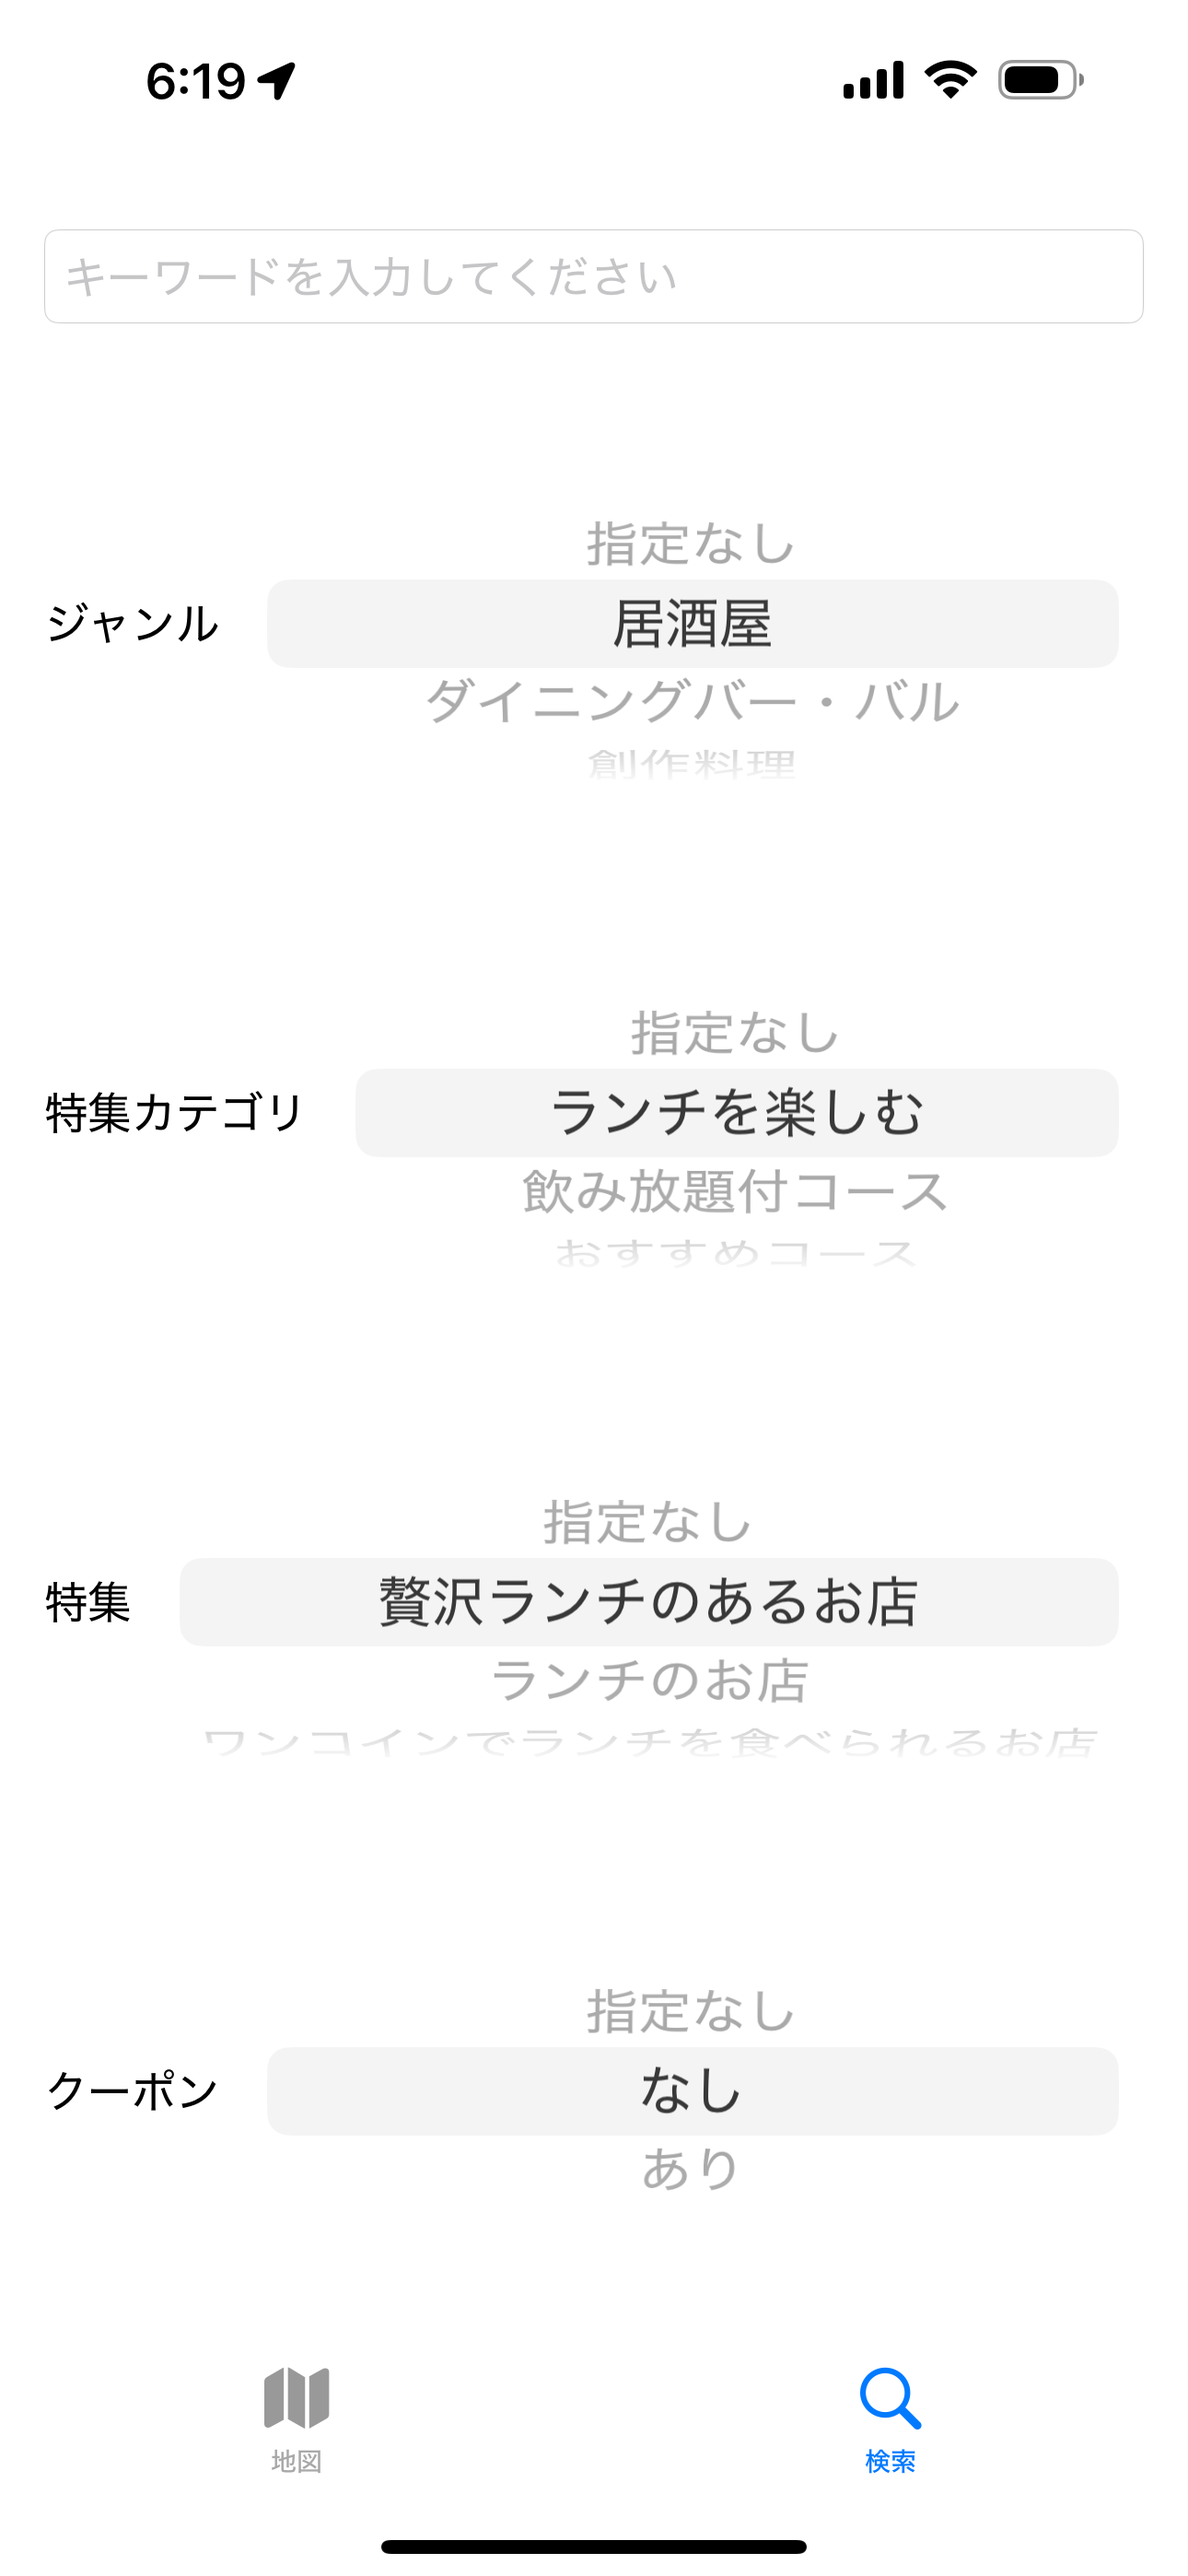
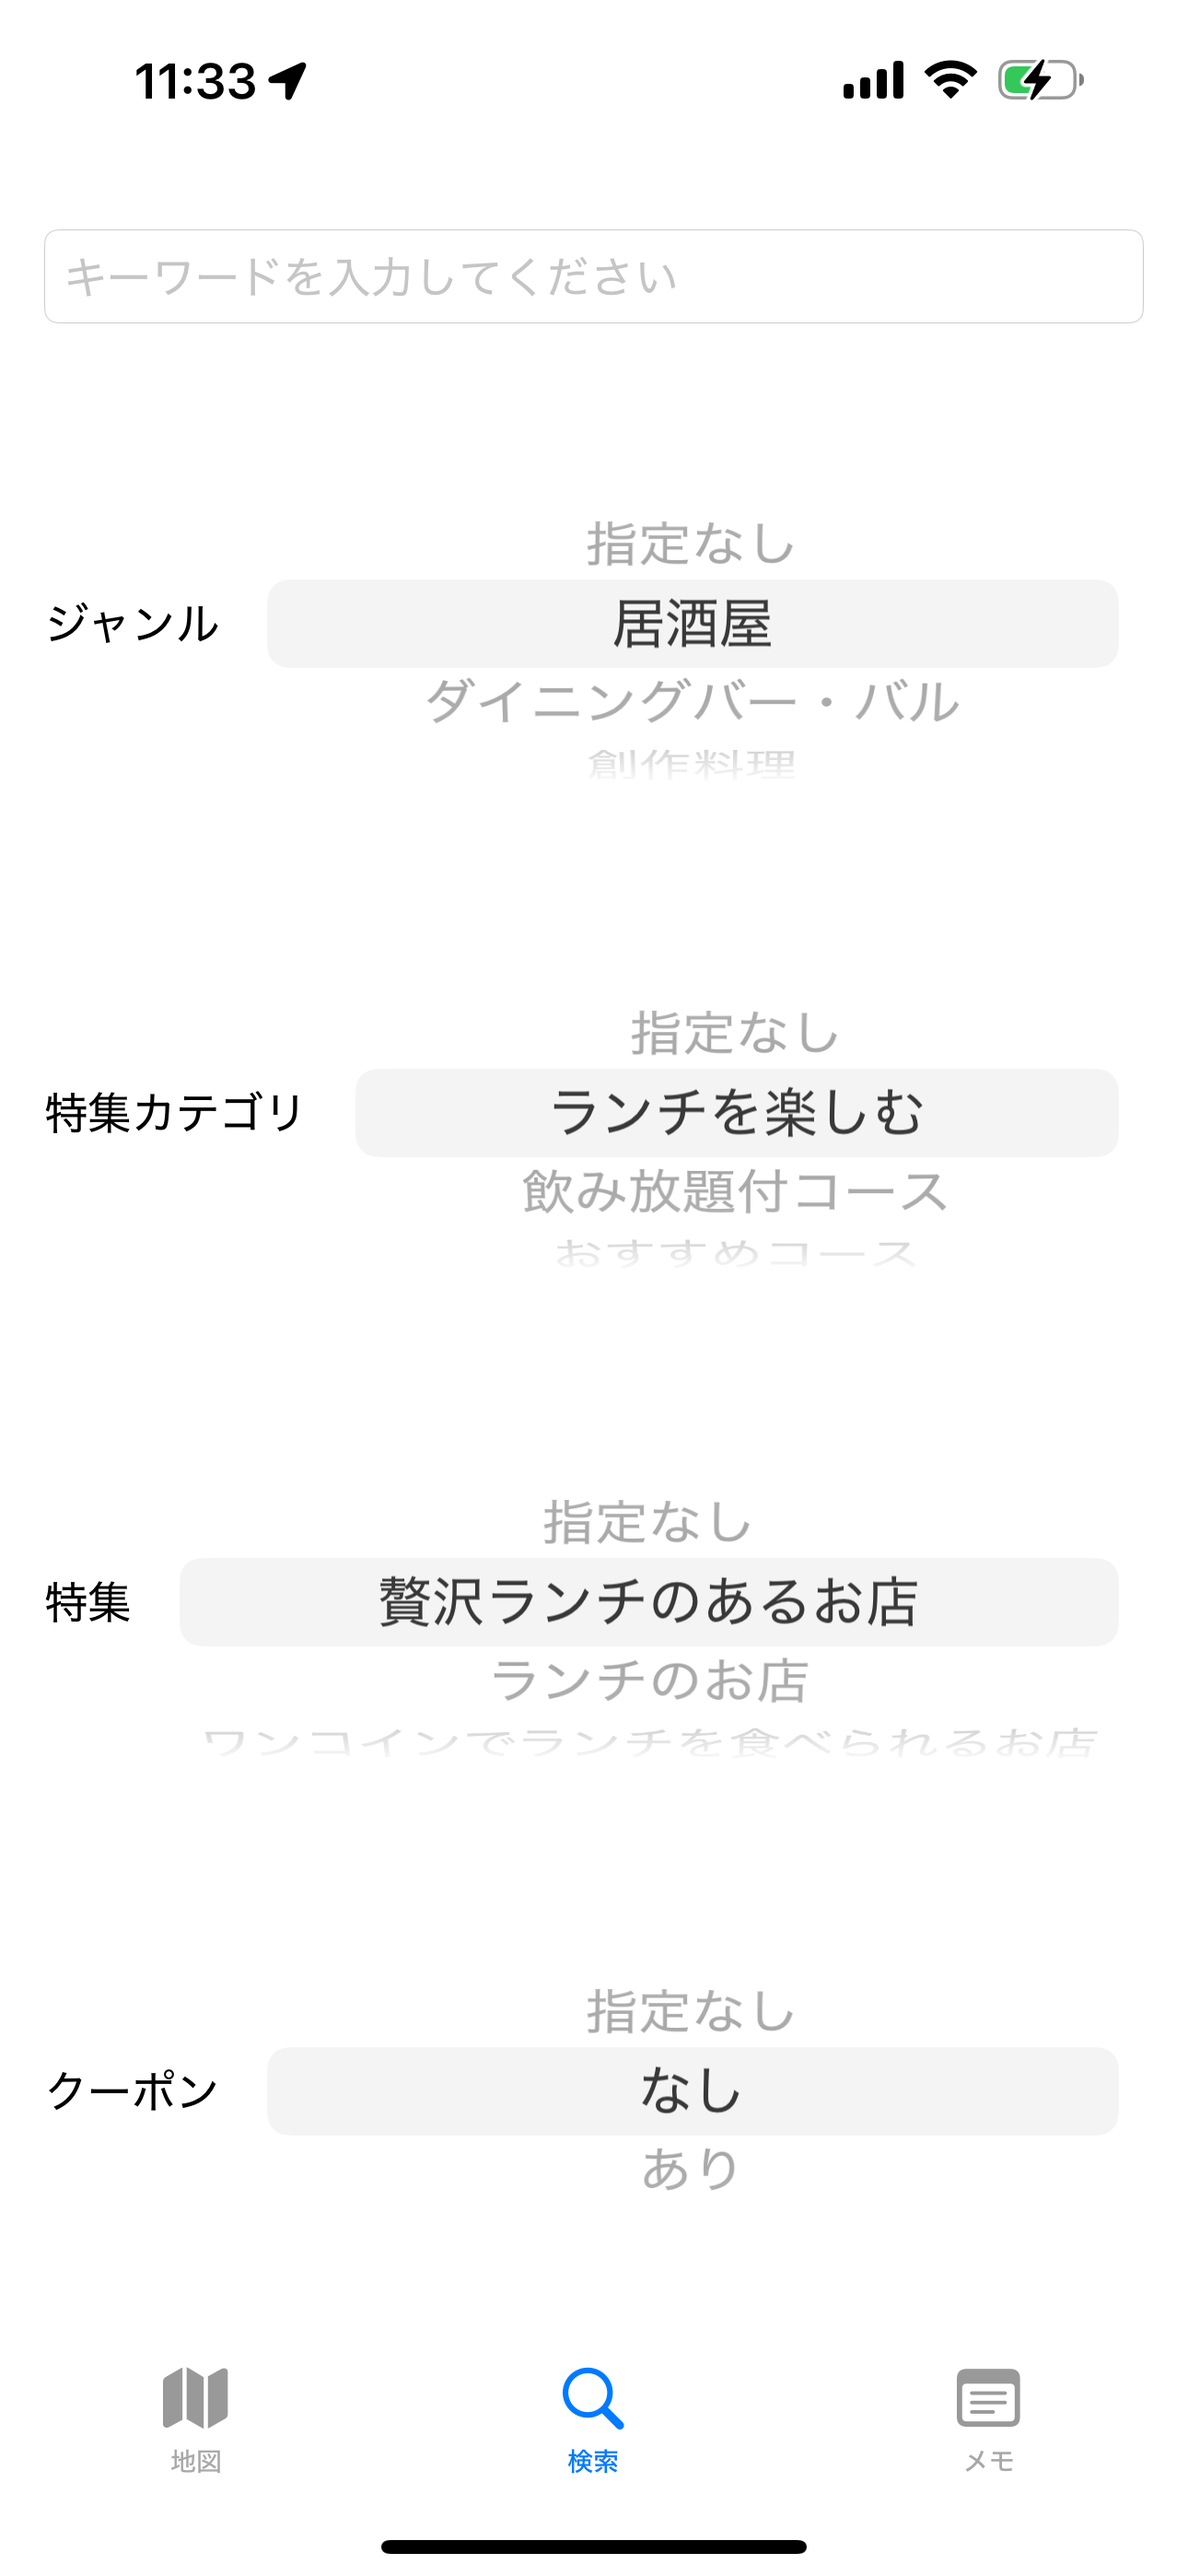
MyGourmetMap更新

diff --git a/MyGourmetMap.html b/MyGourmetMap.html
@@ -3,7 +3,7 @@
 <head>
   <meta charset="utf-8">
   <meta name="viewport" content="width=device-width, initial-scale=1.0">
-  <title>HPグルメマップ</title>
+  <title>グルメメモマップ</title>
   <link href="https://maxcdn.bootstrapcdn.com/font-awesome/4.7.0/css/font-awesome.min.css" rel="stylesheet" integrity="sha384-wvfXpqpZZVQGK6TAh5PVlGOfQNHSoD2xbE+QkPxCAFlNEevoEH3Sl0sibVcOQVnN" crossorigin="anonymous">
   <link rel="stylesheet" type="text/css" href="stylesheet.css">
   <link rel="stylesheet" type="text/css" href="stylesheet4Columns.css">
@@ -14,7 +14,7 @@
   <header>
     <div class="container">
       <div class="header-left">
-        <a href="#"><img class="logo" src="./images/MyGourmetMap.png">HPグルメマップ</a>
+        <a href="#"><img class="logo" src="./images/MyGourmetMap.png">グルメメモマップ</a>
       </div>
       <input type="checkbox" id="menu-btn-check">
       <label for="menu-btn-check" class="menu-btn"><span class="fa fa-bars menu-icon"></span><span class="fa fa-times menu-icon-close"></span></label>
@@ -41,7 +41,7 @@
   <div class="top-wrapper">
     <div class="container">
       <h1>概要</h1>
-        <p>HPグルメマップは指定した検索条件で飲食店を検索する地図アプリです。<br>検索結果のお店を表示します。<br>ホーム画面の地図タブでタップしたお店の詳細、クーポンをアプリ内ブラウザで表示します。<br>アプリ内でホットペッパーグルメAPIを利用します。</p>
+        <p>グルメメモマップは指定した検索条件で飲食店を検索してメモを取れる地図アプリです。<br>検索結果のお店を表示します。<br>ホーム画面の地図タブでタップしたお店の詳細、クーポンをアプリ内ブラウザで表示します。<br>ホーム画面の地図タブでタップしたお店のメモを登録、更新、削除できます。<br>ホーム画面のメモタブでメモを一覧表示します。<br>ホーム画面のメモタブでタップした項目の詳細をお店画面のメモタブで表示します。<br>アプリ内でホットペッパーグルメAPIを利用します。</p>
     </div>
   </div>
   <div class="lesson-wrapper" id="section1">
@@ -54,7 +54,7 @@
           <div class="lesson-icon">
             <a href="./images/MyGourmetMap_0001.PNG"><img src="./images/MyGourmetMap_0001.PNG"></a>
           </div>
-          <p class="text-contents">ホーム画面の地図タブです。検索結果のお店を表示します。キーワード(東京駅など)検索などができます。</p>
+          <p class="text-contents">ホーム画面の地図タブです。検索結果のお店を表示します。キーワード(東京駅など)検索などができます。メモを取ったお店は緑色のマーカーで表示します。</p>
         </div>
         <div class="lesson">
           <div class="lesson-icon">
@@ -66,13 +66,25 @@
           <div class="lesson-icon">
             <a href="./images/MyGourmetMap_0003.PNG"><img src="./images/MyGourmetMap_0003.PNG"></a>
           </div>
-          <p class="text-contents">お店画面のホームタブです。ホーム画面の地図タブでタップしたお店の詳細をアプリ内ブラウザで表示します。</p>
+          <p class="text-contents">ホーム画面のメモタブです。メモを一覧表示します。タップした項目の詳細をお店画面のメモタブで表示します。</p>
         </div>
         <div class="lesson">
           <div class="lesson-icon">
             <a href="./images/MyGourmetMap_0004.PNG"><img src="./images/MyGourmetMap_0004.PNG"></a>
           </div>
+          <p class="text-contents">お店画面のホームタブです。ホーム画面の地図タブでタップしたお店の詳細をアプリ内ブラウザで表示します。</p>
+        </div>
+        <div class="lesson">
+          <div class="lesson-icon">
+            <a href="./images/MyGourmetMap_0005.PNG"><img src="./images/MyGourmetMap_0005.PNG"></a>
+          </div>
           <p class="text-contents">お店画面のクーポンタブです。ホーム画面の地図タブでタップしたお店のクーポンをアプリ内ブラウザで表示します。</p>
+        </div>
+        <div class="lesson">
+          <div class="lesson-icon">
+            <a href="./images/MyGourmetMap_0006.PNG"><img src="./images/MyGourmetMap_0006.PNG"></a>
+          </div>
+          <p class="text-contents">お店画面のメモタブです。ホーム画面の地図タブでタップしたお店のメモを登録、更新、削除できます。</p>
         </div>
       </div>
       <div class="clear"></div>
@@ -90,7 +102,7 @@
   <footer>
     <div class="container">
       <img src="./images/MyGourmetMap.png">
-      <p>HPグルメマップ</p>
+      <p>グルメメモマップ</p>
       <p><a href="./index.html">プライバシーポリシー</a></p>
     </div>
   </footer>

diff --git a/stylesheet4Columns.css b/stylesheet4Columns.css
@@ -1,3 +1,12 @@
+.lesson-wrapper {
+  height: 1000px;
+  padding-bottom: 80px;
+  padding-left: 5%;
+  padding-right: 5%;
+  background-color: #f7f7f7;
+  text-align: center;
+}
+
 .lesson {
   float: left;
   width: 25%;
@@ -8,6 +17,10 @@
     width: 50%;
     margin-bottom: 50px;
   }
+
+  .lesson-wrapper {
+    height: 1400px;
+  }
 }
 
 @media all and (max-width: 670px) {
@@ -16,6 +29,6 @@
   }
 
   .lesson-wrapper {
-    height: 1700px;
+    height: 2200px;
   }
 }
